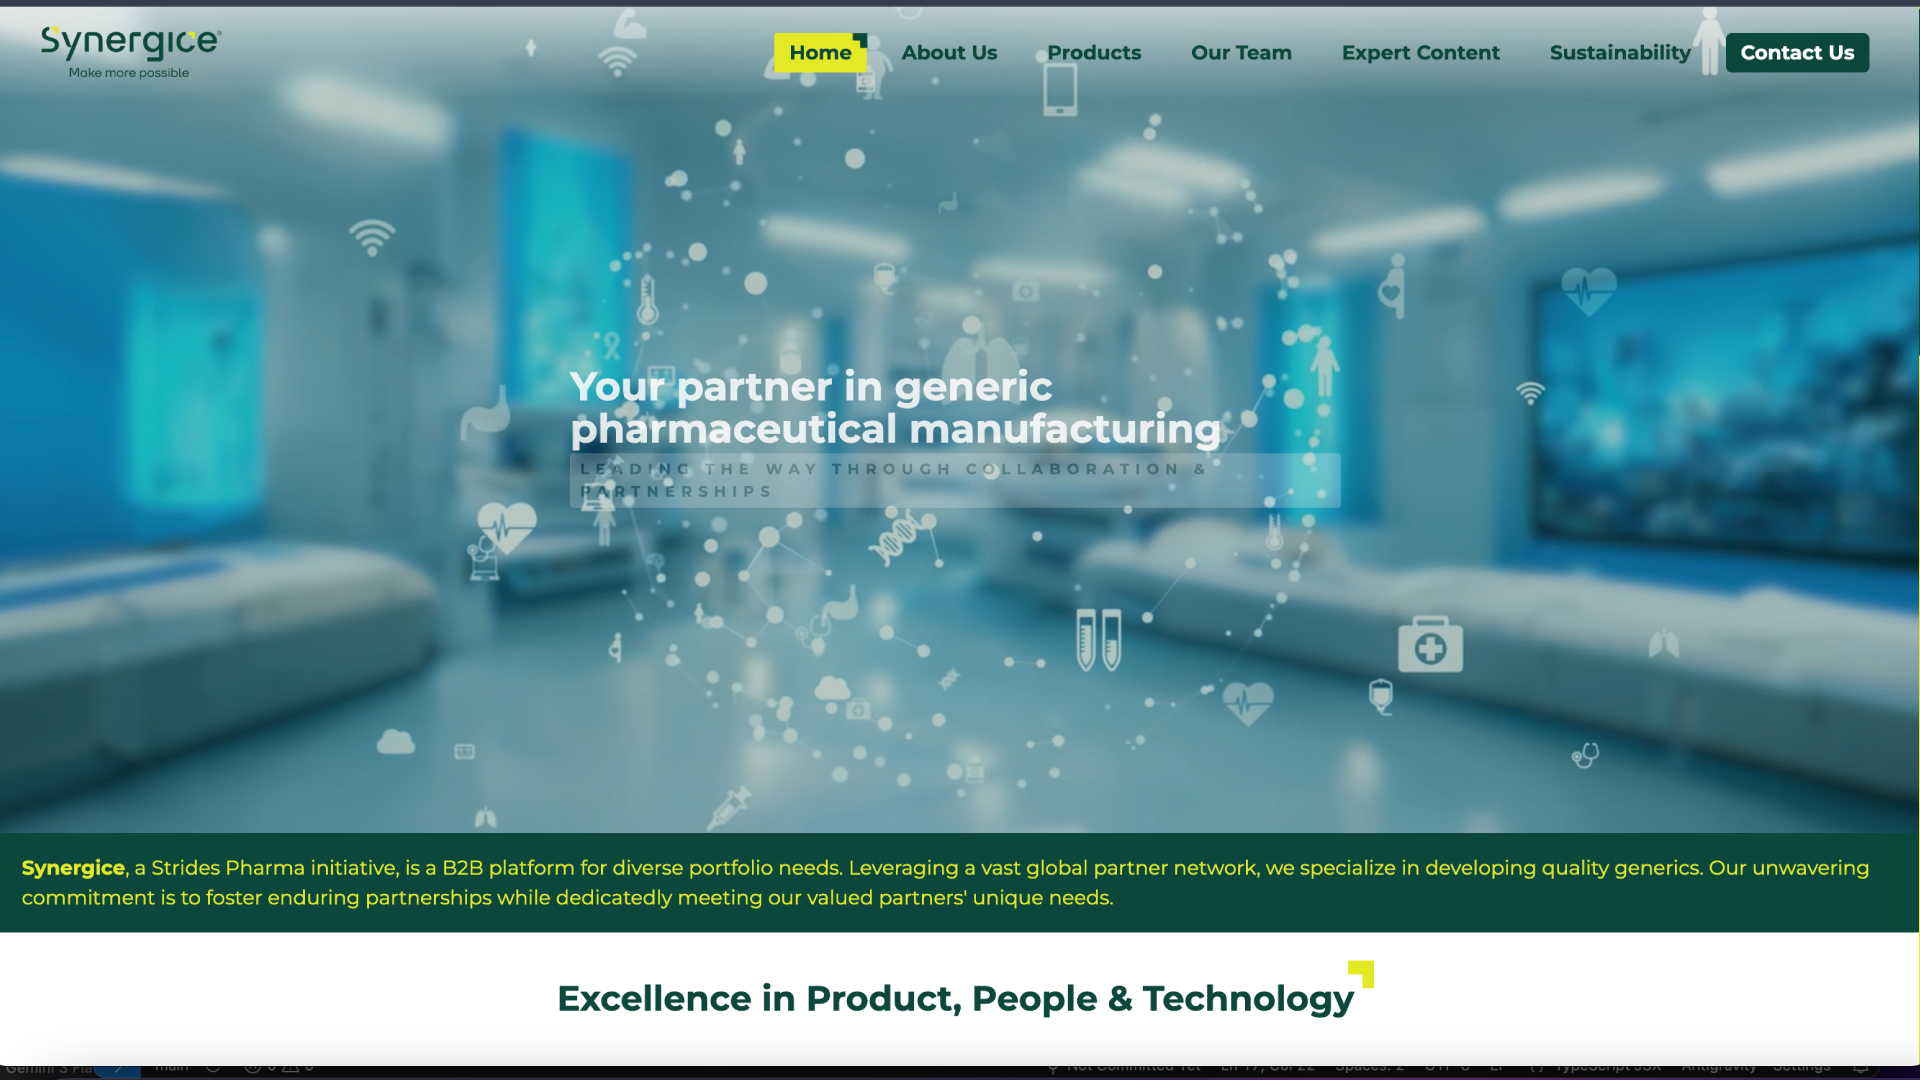
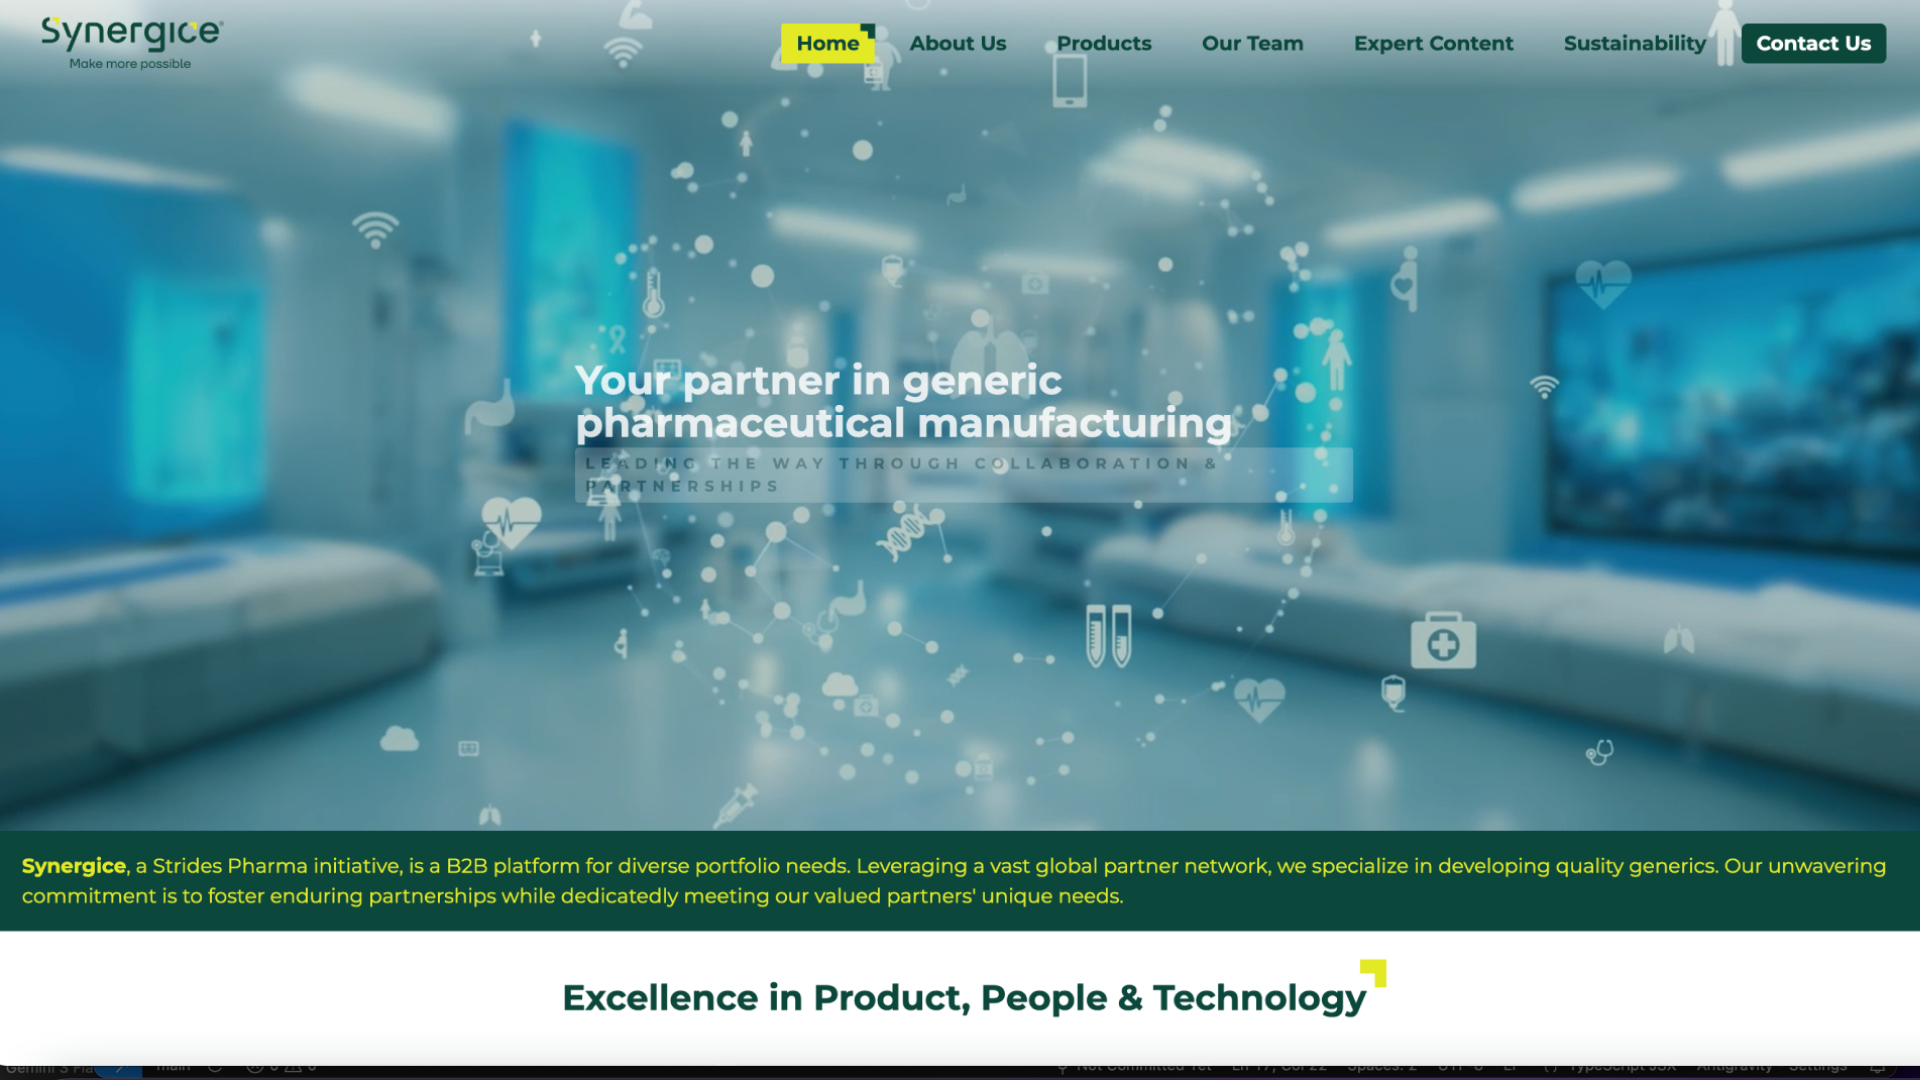
responsive fixes

diff --git a/src/components/sections/FeaturedProjects.tsx b/src/components/sections/FeaturedProjects.tsx
@@ -27,51 +27,58 @@ const projects = [
 
 export function FeaturedProjects() {
   return (
-    <section id="works" className="py-24 md:py-32 bg-matte-black scroll-mt-24">
-      <div className="container mx-auto px-6 md:px-12 mb-12">
+    <section id="works" className="py-24 bg-matte-black scroll-mt-24">
+      <div className="container px-6 md:px-12 mb-12">
         <h2 className="text-4xl md:text-5xl font-heading font-semibold text-off-white">
           Publicly Shareable Work
         </h2>
       </div>
 
-      <div className="flex gap-8 px-6 md:px-12 overflow-x-auto no-scrollbar snap-x snap-mandatory pb-8">
+      <div className="flex gap-6 md:gap-8 px-6 md:px-12 overflow-x-auto no-scrollbar snap-x snap-mandatory pb-8">
         {projects.map((project) => (
           <motion.div
             key={project.id}
             whileHover="hover"
-            className="relative w-[85vw] md:w-[600px] h-[50vh] md:h-[600px] rounded-3xl overflow-hidden shrink-0 group border border-white/5 bg-white snap-center"
+            className="relative w-[82vw] md:w-[600px] h-[480px] md:h-[600px] flex flex-col rounded-3xl overflow-hidden shrink-0 group border border-white/5 bg-white snap-start"
           >
             {/* Image Container with Hover Zoom */}
-            <motion.div
-              className="absolute inset-0 z-0 h-[70%]"
-              variants={{
-                hover: { scale: 1.05 },
-              }}
-              transition={{ type: "spring", stiffness: 300, damping: 20 }}
+            <a
+              href={project.url}
+              target="_blank"
+              rel="noopener noreferrer"
+              className="relative flex-1 overflow-hidden cursor-pointer"
             >
-              <Image
-                src={project.img}
-                alt={project.title}
-                fill
-                className="object-cover"
-              />
-            </motion.div>
+              <motion.div
+                className="w-full h-full"
+                variants={{
+                  hover: { scale: 1.05 },
+                }}
+                transition={{ type: "spring", stiffness: 300, damping: 20 }}
+              >
+                <Image
+                  src={project.img}
+                  alt={project.title}
+                  fill
+                  className="object-cover"
+                />
+              </motion.div>
+            </a>
 
             {/* Content Area with White Background */}
-            <div className="absolute inset-x-0 bottom-0 h-[30%] bg-white p-8 flex flex-col justify-center z-20">
+            <div className="bg-white p-6 md:p-8 flex flex-col justify-center border-t border-slate-100 z-20">
               <div className="flex justify-between items-center">
-                <div>
-                  <p className="text-electric-blue text-sm font-medium mb-1">
+                <div className="flex-1 pr-4">
+                  <p className="text-electric-blue text-xs md:text-sm font-medium mb-1">
                     {project.category}
                   </p>
-                  <h3 className="text-2xl font-bold text-slate-900 mb-3">
+                  <h3 className="text-xl md:text-2xl font-bold text-slate-900 mb-3">
                     {project.title}
                   </h3>
-                  <div className="flex flex-wrap gap-2">
+                  <div className="flex flex-wrap gap-1.5">
                     {project.tags.map((tag) => (
                       <span
                         key={tag}
-                        className="px-2.5 py-1 bg-slate-50 text-slate-500 rounded-md text-[10px] font-bold uppercase tracking-wider border border-slate-100"
+                        className="px-2 py-0.5 bg-slate-50 text-slate-500 rounded-md text-[9px] md:text-[10px] font-bold uppercase tracking-wider border border-slate-100"
                       >
                         {tag}
                       </span>
@@ -83,7 +90,7 @@ export function FeaturedProjects() {
                   href={project.url}
                   target="_blank"
                   rel="noopener noreferrer"
-                  className="relative group/link"
+                  className="relative group/link shrink-0"
                 >
                   <motion.div
                     variants={{
@@ -94,9 +101,9 @@ export function FeaturedProjects() {
                         color: "#fff",
                       },
                     }}
-                    className="w-12 h-12 rounded-full bg-slate-100 flex items-center justify-center text-slate-900 transition-colors"
+                    className="w-10 h-10 md:w-12 md:h-12 rounded-full bg-slate-100 flex items-center justify-center text-slate-900 transition-colors"
                   >
-                    <ArrowUpRight className="w-5 h-5" />
+                    <ArrowUpRight className="w-4.5 h-4.5 md:w-5 md:h-5" />
                   </motion.div>
                 </a>
               </div>

diff --git a/src/components/sections/UXProcessTimeline.tsx b/src/components/sections/UXProcessTimeline.tsx
@@ -109,7 +109,7 @@ export function UXProcessTimeline() {
   });
 
   return (
-    <section ref={containerRef} className="py-24 md:py-32 bg-slate-50 text-slate-900 relative overflow-hidden">
+    <section ref={containerRef} className="py-24 md:py-24 bg-slate-50 text-slate-900 relative overflow-hidden">
       <div className="container mx-auto px-6 md:px-12 max-w-5xl relative z-10">
         <div className="mb-24 md:mb-32 text-center">
           <motion.h2 
